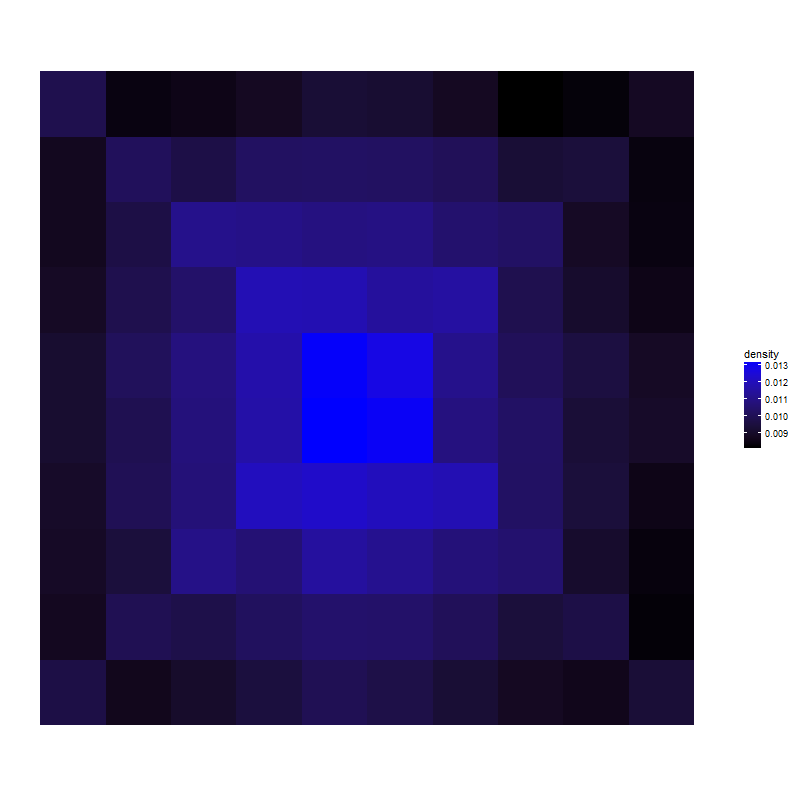
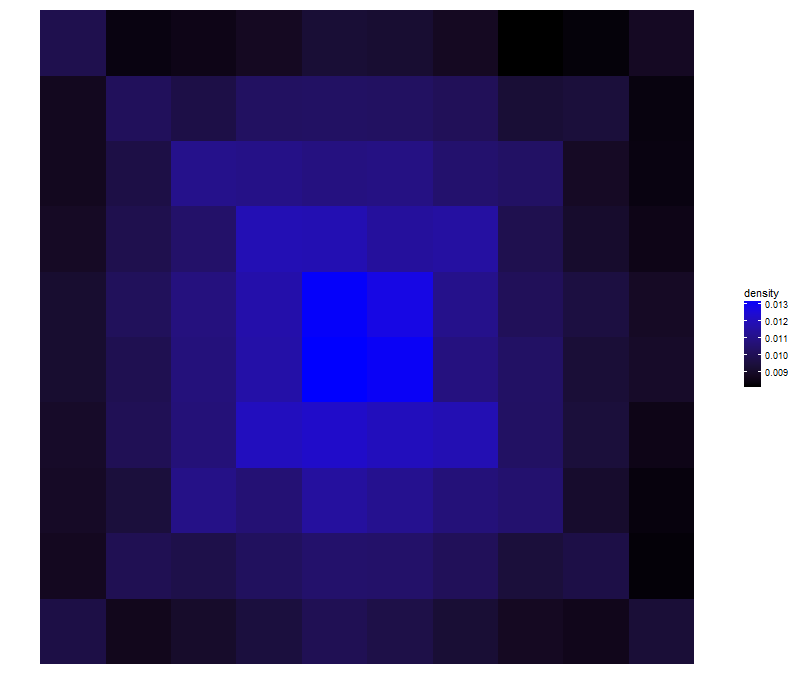
crop images

diff --git a/_posts/2015-5-11-Anabasis.md b/_posts/2015-5-11-Anabasis.md
@@ -21,21 +21,29 @@ In this post, we explore data collected with the app. 144674 records have been r
 **Where players prefer to click in the whole area?**
 
 For each drawing, we collect the first 5000 cells discovered and obtain density plot of cells:
+
 <img src="../images/2015-5-11-Anabasis/whole_top_5000_large.png" alt="density of clicking on the whole area"/>
+
 If cells were selected uniformly, each one should have density of 1e-4. We observe that densities for cells in the top-left room are mostly over 2e-4. The rooms located in the first row have many cells with density over 1e-4, with a progressive fading over columns. Middle-left (5th) column has higher densities compared to middle-right (6th) column. Concentric circles from the center with decaying densites seem appearent. Finally, cells located in rooms in middle-left and middle-right have lower densities (under 1e-4), especially for column 1, 2 and 9.
 
 **Where players prefer to click click inside a room?**
 
 For each drawing, we collect the first cells discovered. We obtain density plots of each cell inside a room. If cells were selected uniformly, each should have density of 0.01.
+
 <img src="../images/2015-5-11-Anabasis/room_top_5_large.png" alt="density inside room (top 5 for each draw)"/>
+
 Legend: Density plot inside a room where data are the first 5 cells of each drawing.
 
 When a player arrives in a room, there is a strong preference for selecting top-left cell, and then drawing a diagonal towards the center.
+
 <img src="../images/2015-5-11-Anabasis/room_top_100_large.png" alt="density inside room (top 100 for each draw)"/>
+
 Legend: Density plot inside a room where data are the first 100 cells of each drawing.
 
 After 100 cells discovered (among 10000), density concentrates on the center cells and on diagonals.
+
 <img src="../images/2015-5-11-Anabasis/room_top_5000_large.png" alt="density inside room (top 5000 for each draw)"/>
+
 Legend: Density plot inside a room where data are the first 5000 cells of each drawing.
 
 When many cells have been discovered, concentric circles from the center with decaying densites clearly appear, with a preference for diagonals and the middle cross cells (columns and rows 5 and 6).
@@ -43,14 +51,14 @@ When many cells have been discovered, concentric circles from the center with de
 **How players share the work**
 
 The following pictures show four draws where one color is assigned to (almost) one id. I let you observe them.
+
 <img src="../images/2015-5-11-Anabasis/pic_1_large.png" alt="draw 1 with one id for one color"/>
-Work 1: ""
+
 <img src="../images/2015-5-11-Anabasis/pic_9_large.png" alt="draw 9 with one id for one color"/>
-Work 9: "anonymous"
+
 <img src="../images/2015-5-11-Anabasis/pic_25_large.png" alt="draw 25 with one id for one color"/>
-Work 25: "anonymous"
+
 <img src="../images/2015-5-11-Anabasis/pic_29_large.png" alt="draw 29 with one id for one color"/>
-Work 29: "FINALLY"
 
 I hope you have enjoyed this content! If you decide to modify or build a new app from my code, please let me in touch!
 
